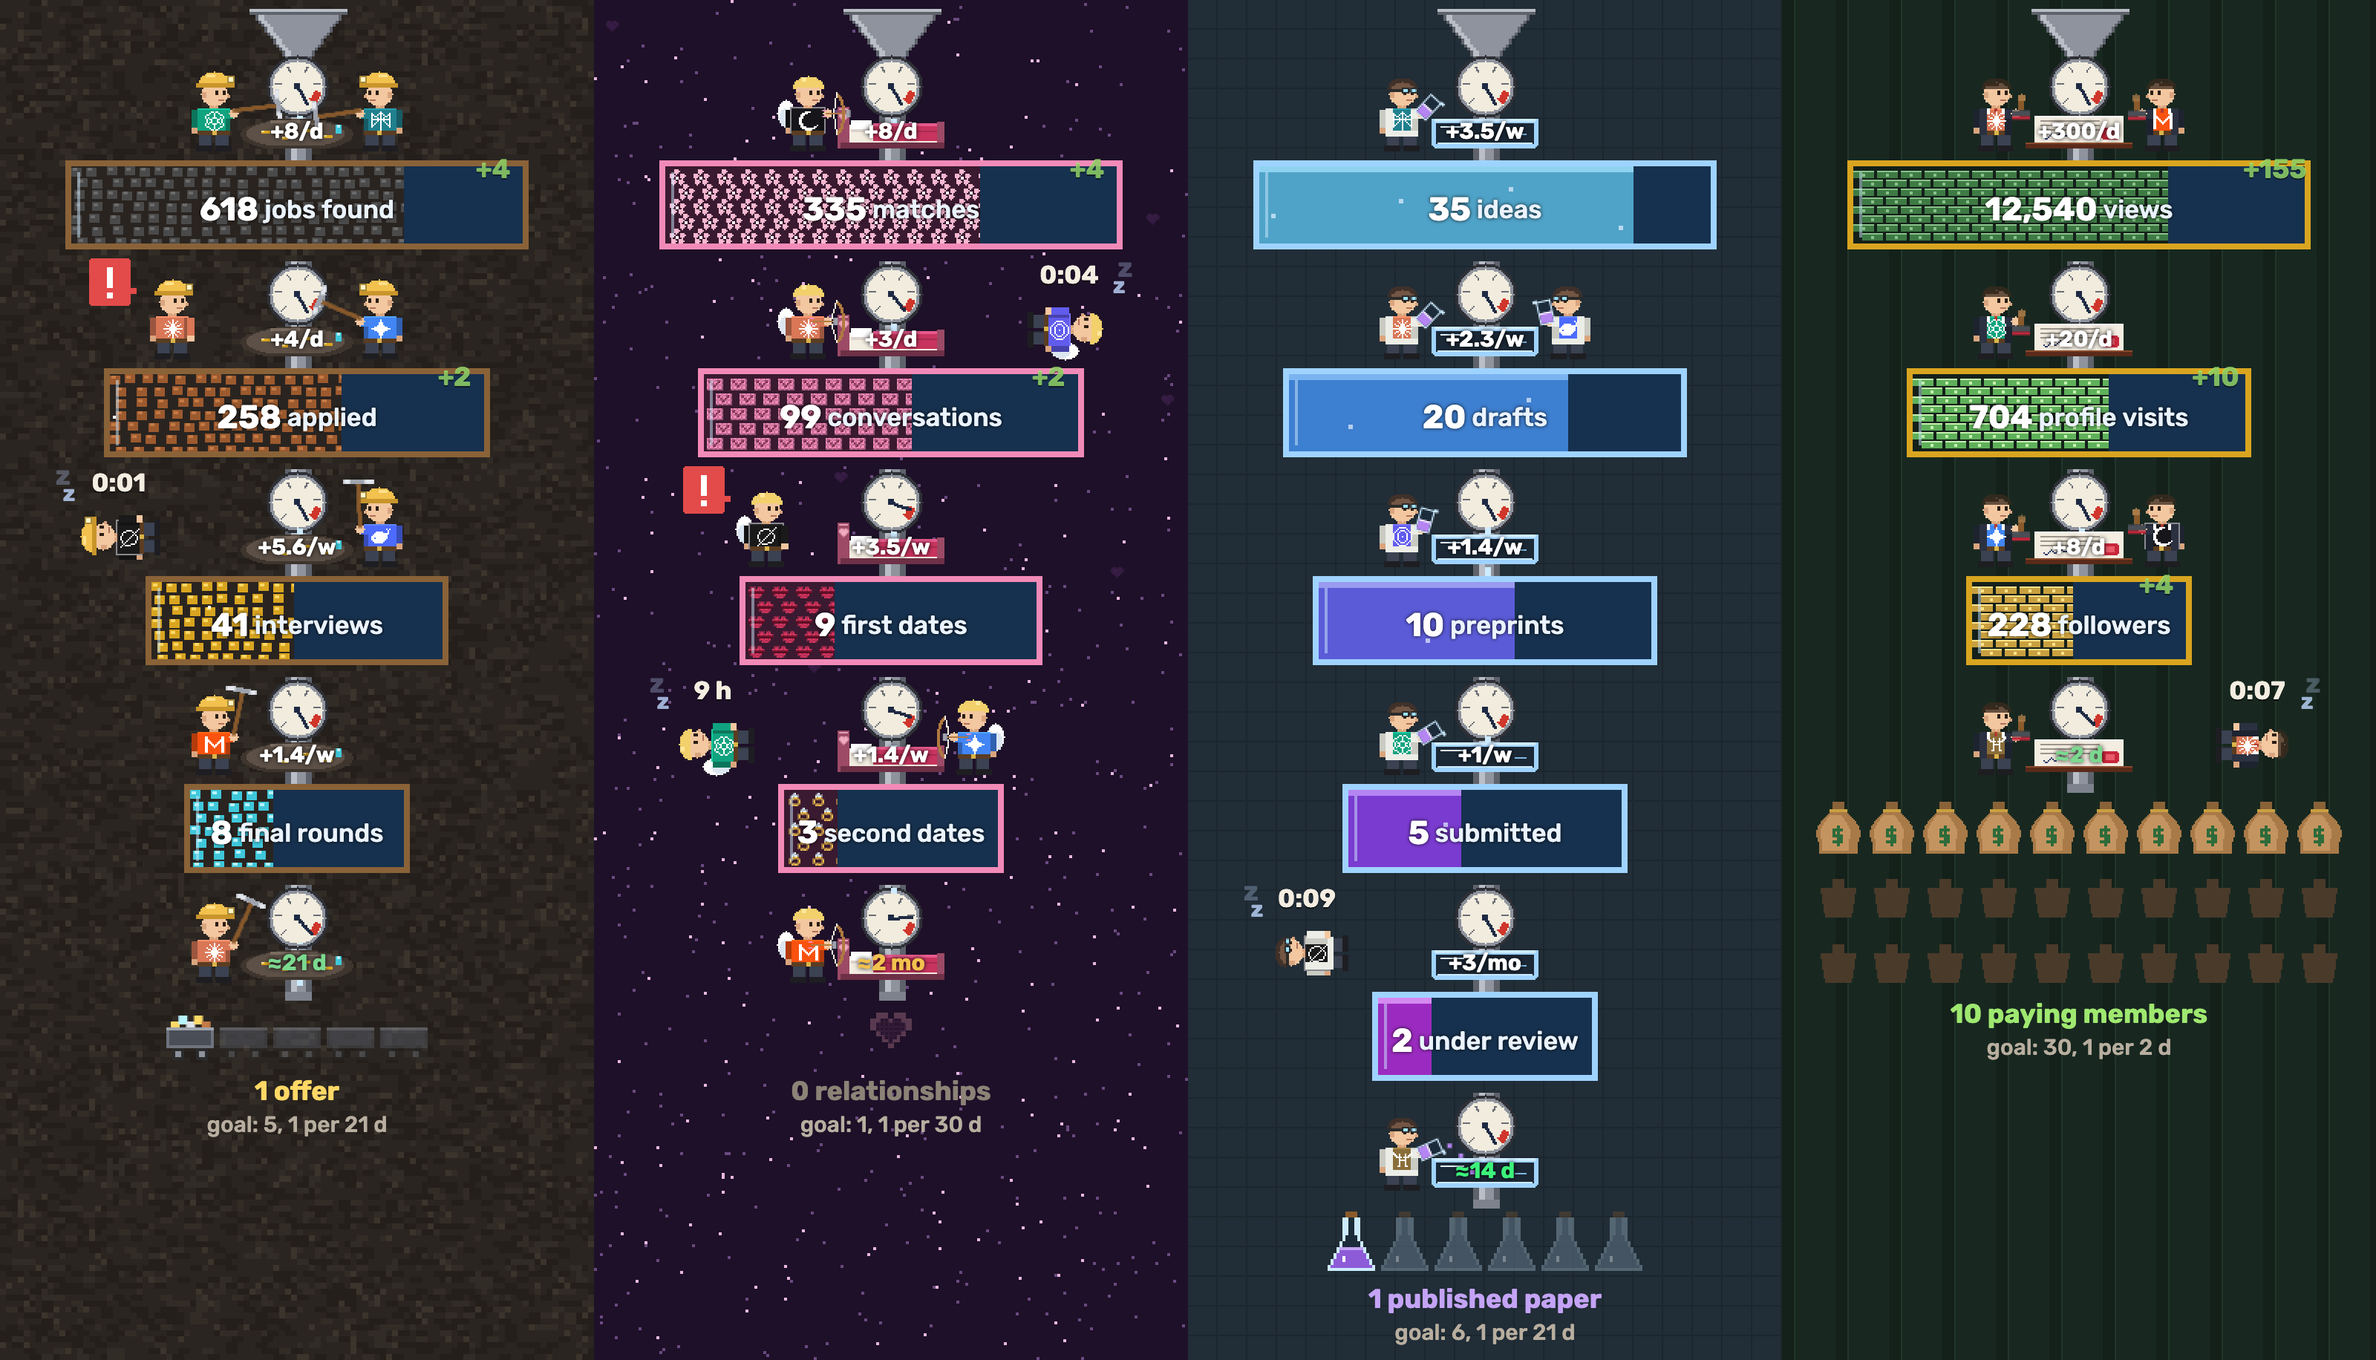
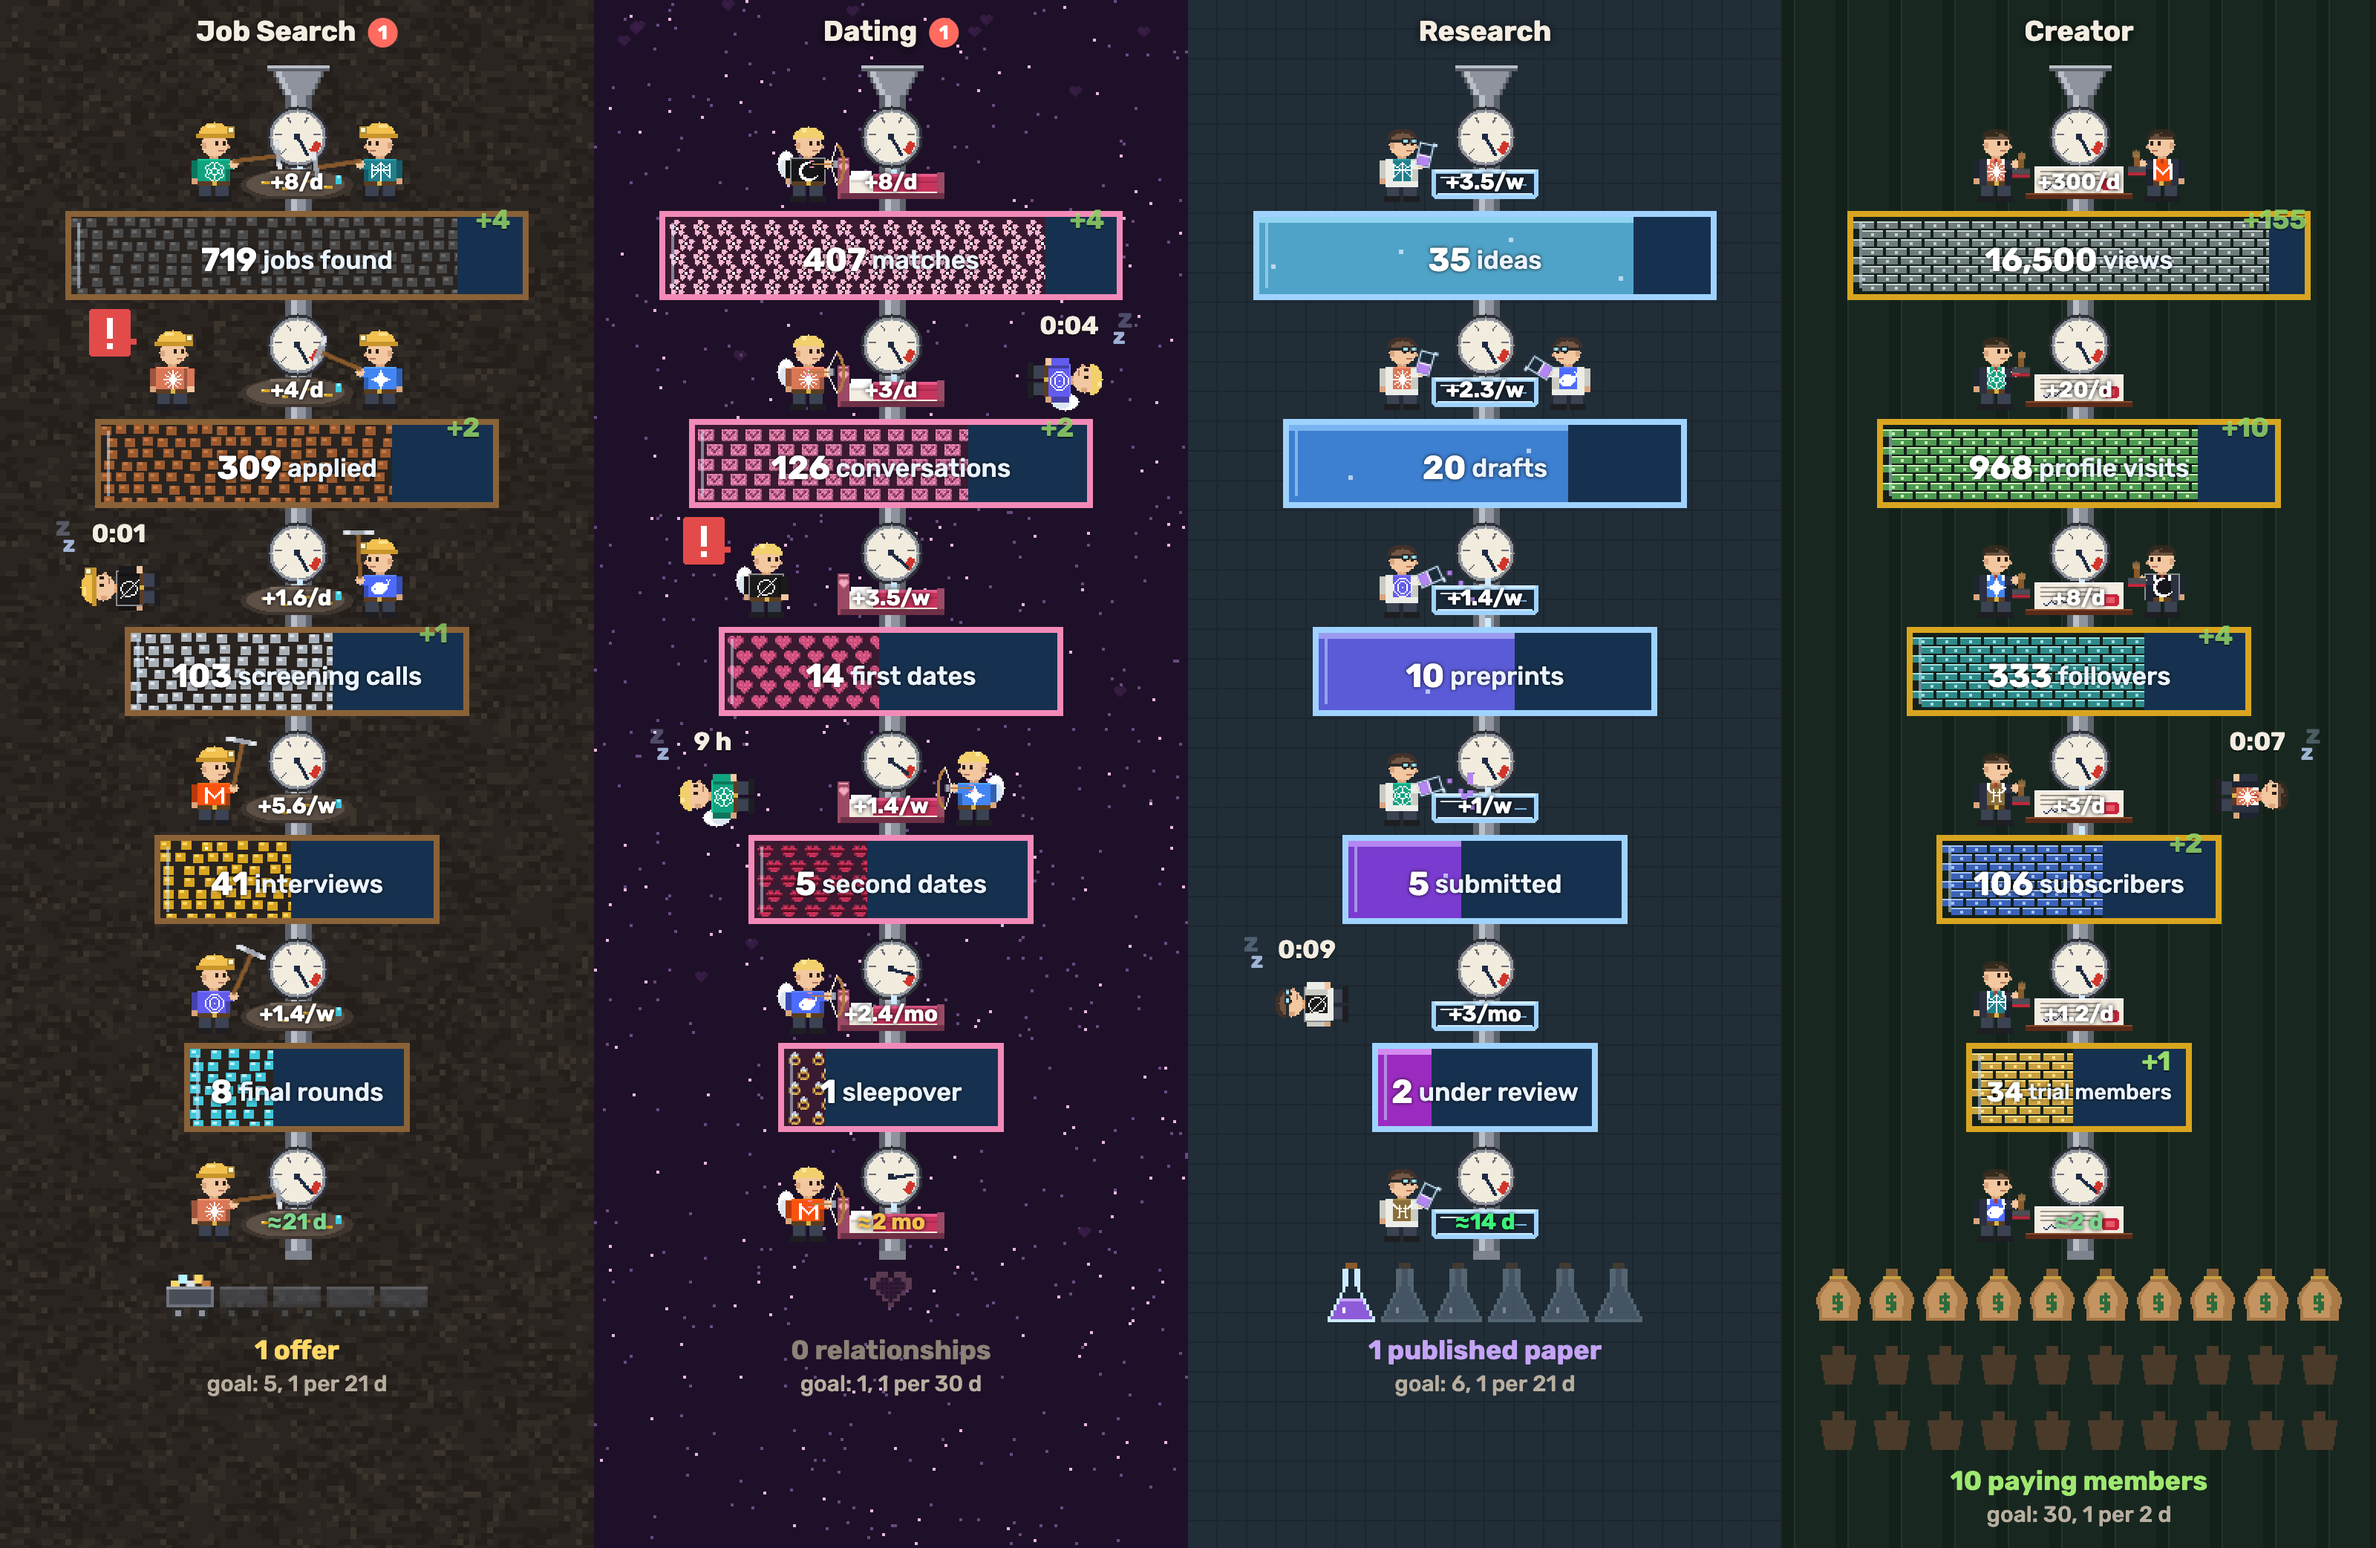
README pictures redrawn; the overview shows funnel titles on their backdrops

diff --git a/tools/render-docs.js b/tools/render-docs.js
@@ -80,15 +80,32 @@ function themesSheet() {
 
 // The dashboard itself: the first four funnels after a short run of the demo, so tanks have
 // moved and agents are mid-action.
+// The first columns of the demo as the dashboard shows them: titles on their column's backdrop
+// (with the red badge of agents waiting), then the scene after 12 seconds of simulated time.
 function overview() {
-  const scale = 2, cols = 4;
+  const scale = 2, dpr = 2, cols = 4, K = scale * dpr, TH = 22;
   const scene = new Scene(document.createElement('canvas'), FUNNELS);
-  scene.resize(scale, 2);
+  scene.resize(scale, dpr);
   for (let i = 0; i < 12 * 30; i++) scene.update(1 / 30);
   scene.render();
   const src = scene.canvas, w = Math.round(src.width * cols / scene.funnels.length);
-  const [c, g] = canvas(w, src.height);
-  g.drawImage(src, 0, 0, w, src.height, 0, 0, w, src.height);
+  const [c, g] = canvas(w, TH * K + src.height);
+  g.drawImage(src, 0, 0, w, src.height, 0, TH * K, w, src.height);
+  for (let fi = 0; fi < cols; fi++) {
+    const f = scene.funnels[fi], x = fi * CW * K, cx = x + CW * K / 2, cy = TH * K / 2;
+    g.drawImage(scene.titleStrip(fi, TH), x, 0, CW * K, TH * K);
+    g.font = `600 ${19 * dpr}px ${FONT}`;
+    g.textAlign = 'center'; g.textBaseline = 'middle';
+    const waiting = scene.waitingFor(f), tw = g.measureText(f.title).width, bw = waiting ? 28 * dpr : 0;
+    g.shadowColor = 'rgba(0,0,0,0.8)'; g.shadowBlur = 6 * dpr; g.shadowOffsetY = dpr;
+    g.fillStyle = '#F4EDE1'; g.fillText(f.title, cx - bw / 2, cy);
+    g.shadowColor = 'transparent';
+    if (waiting) {
+      const bx = cx - bw / 2 + tw / 2 + 8 * dpr + 10 * dpr;
+      g.fillStyle = '#FF6B5E'; g.beginPath(); g.arc(bx, cy, 10 * dpr, 0, Math.PI * 2); g.fill();
+      g.font = `600 ${13 * dpr}px ${FONT}`; g.fillStyle = '#FFFFFF'; g.fillText(String(waiting), bx, cy + dpr / 2);
+    }
+  }
   return c;
 }
 
